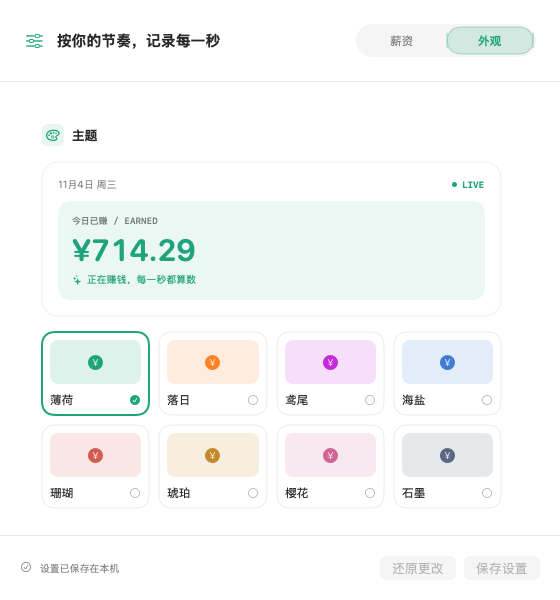
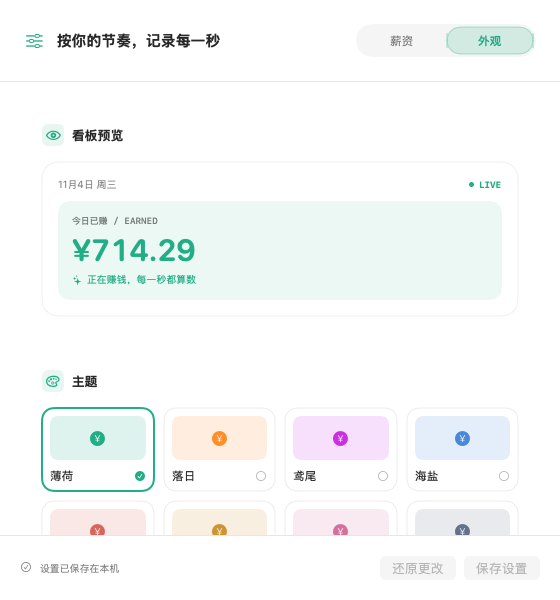
Add dashboard transparency settings and refresh previews

diff --git a/Sources/WageFlow/WageFlowApp.swift b/Sources/WageFlow/WageFlowApp.swift
@@ -21,6 +21,10 @@ final class SalaryStore: ObservableObject {
            let decoded = try? JSONDecoder().decode(WorkSettings.self, from: data), decoded.valid {
             settings = decoded
         } else { settings = WorkSettings() }
+        // Rewrite saved settings without the retired opacity configuration.
+        if let data = try? JSONEncoder().encode(settings) {
+            UserDefaults.standard.set(data, forKey: "workSettings")
+        }
         calendarSubscription = holidays.objectWillChange.sink { [weak self] _ in
             self?.objectWillChange.send()
         }
@@ -92,6 +96,7 @@ final class SalaryAppDelegate: NSObject, NSApplicationDelegate {
     private var timer: Timer?
     private var calendarTimer: Timer?
     private var clickMonitor: Any?
+    private var appearanceSubscription: AnyCancellable?
 
     func applicationDidFinishLaunching(_ notification: Notification) {
         // Keep the item alive and use a native image instead of a TimelineView label.
@@ -108,6 +113,10 @@ final class SalaryAppDelegate: NSObject, NSApplicationDelegate {
             button.setAccessibilityLabel("WageFlow，点击查看今日收入")
         }
         statusItem = item
+        appearanceSubscription = store.$settings.sink { [weak self] settings in
+            self?.desktopWindow?.alphaValue = settings.dashboardOpacity
+            self?.popover.contentViewController?.view.window?.alphaValue = settings.dashboardOpacity
+        }
         popover.behavior = .transient
         popover.contentViewController = NSHostingController(rootView:
             Dashboard(store: store,
@@ -140,6 +149,7 @@ final class SalaryAppDelegate: NSObject, NSApplicationDelegate {
         } else {
             NSApp.activate(ignoringOtherApps: true)
             popover.show(relativeTo: button.bounds, of: button, preferredEdge: .minY)
+            popover.contentViewController?.view.window?.alphaValue = store.settings.dashboardOpacity
             popover.contentViewController?.view.window?.makeKey()
         }
     }
@@ -171,6 +181,7 @@ final class SalaryAppDelegate: NSObject, NSApplicationDelegate {
             desktopWindow = window
         }
         NSApp.activate(ignoringOtherApps: true)
+        desktopWindow?.alphaValue = store.settings.dashboardOpacity
         desktopWindow?.makeKeyAndOrderFront(nil)
     }
 

diff --git a/Sources/SalaryCore/SalaryCalculator.swift b/Sources/SalaryCore/SalaryCalculator.swift
@@ -16,12 +16,14 @@ public struct WorkSettings: Codable, Equatable {
     public var commute: Double = 60
     public var dailyCost: Double = 30
     public var theme: String = "薄荷"
+    public var dashboardTransparency: Double = 0
+    public var dashboardOpacity: Double { 1 - dashboardTransparency }
     public var hideIncome: Bool = false
     public init() {}
 
     private enum CodingKeys: String, CodingKey {
         case income, cycle, workdays, start, end, lunchStart, lunchEnd
-        case workdayOverrides, commute, dailyCost, theme, hideIncome
+        case workdayOverrides, commute, dailyCost, theme, hideIncome, dashboardTransparency
     }
 
     private enum LegacyCodingKeys: String, CodingKey { case workdayMode }
@@ -44,6 +46,8 @@ public struct WorkSettings: Codable, Equatable {
         commute = try c.decodeIfPresent(Double.self, forKey: .commute) ?? commute
         dailyCost = try c.decodeIfPresent(Double.self, forKey: .dailyCost) ?? dailyCost
         theme = try c.decodeIfPresent(String.self, forKey: .theme) ?? theme
+        // Ignore the retired opacity key so existing appearance caches reset to opaque.
+        dashboardTransparency = try c.decodeIfPresent(Double.self, forKey: .dashboardTransparency) ?? 0
         hideIncome = try c.decodeIfPresent(Bool.self, forKey: .hideIncome) ?? hideIncome
     }
 
@@ -51,7 +55,8 @@ public struct WorkSettings: Codable, Equatable {
         income.isFinite && income >= 0 && workdays.isFinite && workdays >= 0 &&
         start >= 0 && end <= 1440 && end > start && lunchStart >= start &&
         lunchEnd >= lunchStart && lunchEnd <= end && paidMinutes > 0 &&
-        commute.isFinite && commute >= 0 && dailyCost.isFinite && dailyCost >= 0
+        commute.isFinite && commute >= 0 && dailyCost.isFinite && dailyCost >= 0 &&
+        dashboardTransparency.isFinite && (0...0.4).contains(dashboardTransparency)
     }
     public var paidMinutes: Double { Double(end - start - (lunchEnd - lunchStart)) }
     public var dailyPay: Double {

diff --git a/Sources/WageFlow/SettingsPanel.swift b/Sources/WageFlow/SettingsPanel.swift
@@ -132,7 +132,9 @@ struct SettingsPanel: View {
                         calendarCard
                         previewCard
                     } else {
+                        appearancePreview
                         themeCard
+                        opacityCard
                     }
                 }.padding(24)
             }.frame(maxWidth: .infinity, maxHeight: .infinity)
@@ -268,14 +270,37 @@ struct SettingsPanel: View {
         return "每日计薪 \(paid) 小时 · 在岗 \(span) 小时"
     }
 
+    private var appearancePreview: some View {
+        card("看板预览", icon: "eye") {
+            DashboardPreview(theme: WorkTheme.named(editor.draft.theme))
+                .opacity(editor.draft.dashboardOpacity)
+        }
+    }
+
     private var themeCard: some View {
         card("主题", icon: "paintpalette") {
-            DashboardPreview(theme: WorkTheme.named(editor.draft.theme))
             LazyVGrid(columns: Array(repeating: GridItem(.flexible(), spacing: 10), count: 4), spacing: 10) {
                 ForEach(WorkTheme.all) { theme in
                     swatch(theme)
                 }
             }
+        }
+    }
+
+    private var opacityCard: some View {
+        card("透明度", icon: "circle.lefthalf.filled") {
+            HStack {
+                Text("透明度")
+                Spacer()
+                Text(editor.draft.dashboardTransparency, format: .percent.precision(.fractionLength(0)))
+                    .monospacedDigit().foregroundStyle(.secondary)
+            }
+            Slider(value: $editor.draft.dashboardTransparency, in: 0...0.4, step: 0.01) {
+                Text("透明度")
+            }
+            .labelsHidden()
+            Text("保存后应用于菜单栏看板和桌面看板，0% 为完全不透明。")
+                .font(.caption).foregroundStyle(.secondary)
         }
     }
 

diff --git a/Tests/SalaryCoreTests/SalaryCalculatorTests.swift b/Tests/SalaryCoreTests/SalaryCalculatorTests.swift
@@ -12,6 +12,7 @@ struct SalaryCalculatorTests {
         suite.testWeekendHasNoEarnings()
         suite.testCyclesAndEffectivePay()
         suite.testInvalidSchedules()
+        suite.testAppearanceSettings()
         checkHolidayCalendars()
         checkWorkCalendarSelection()
         checkTimeCode()
@@ -22,6 +23,20 @@ struct SalaryCalculatorTests {
         var c = Calendar(identifier: .gregorian)
         c.timeZone = TimeZone(secondsFromGMT: 0)!
         return c
+    }
+    func testAppearanceSettings() {
+        let legacy = try! JSONDecoder().decode(WorkSettings.self, from: Data("{}".utf8))
+        precondition(legacy.dashboardOpacity == 1)
+        let migrated = try! JSONDecoder().decode(WorkSettings.self, from: Data(#"{"dashboardOpacity":0.45,"income":12345}"#.utf8))
+        precondition(migrated.dashboardOpacity == 1 && migrated.income == 12345)
+        var settings = legacy
+        settings.dashboardTransparency = 0.4
+        let restored = try! JSONDecoder().decode(WorkSettings.self, from: JSONEncoder().encode(settings))
+        precondition(restored == settings && restored.valid)
+        for invalid in [-0.01, 0.41, 1.01, Double.nan, Double.infinity] {
+            settings.dashboardTransparency = invalid
+            precondition(!settings.valid)
+        }
     }
     private func snapshot(_ hour: Int, _ minute: Int = 0, day: Int = 2) -> WorkSnapshot {
         let date = calendar.date(from: DateComponents(year: 2026, month: 11, day: day, hour: hour, minute: minute))!

diff --git a/scripts/render-previews.py b/scripts/render-previews.py
@@ -41,7 +41,7 @@ struct PreviewRenderer {
         previewDate = Calendar(identifier: .gregorian).date(from:
             DateComponents(year: 2026, month: 11, day: 7, hour: 11, minute: 30))!
         try render(Dashboard(store: store), name: "dashboard-restday", width: 400, height: 545)
-        try render(SettingsPanel(store: store), name: "settings-pay", width: 560, height: 1445)
+        try render(SettingsPanel(store: store), name: "settings-pay", width: 560, height: 600)
         try render(SettingsPanel(store: store, previewPage: .appearance), name: "settings-appearance", width: 560, height: 600)
     }
 

diff --git a/README.md b/README.md
@@ -53,6 +53,8 @@ python3 scripts/render-previews.py     # 生成预览图，需要 Python 3
 
 点击菜单栏人民币图标打开看板，齿轮进入设置。修改后点击「保存设置」（`⌘S`）生效。
 
+外观设置支持主题配色和看板透明度（0%–40%），同时应用于菜单栏看板和桌面看板；默认透明度为 0%，即完全不透明。
+
 ## 计算与日历
 
 月薪按当月计薪天数折算，午休及休息日不累计收入；仅支持当天班次。午休时段看板切换为午休页面并显示结束倒计时，关闭「扣除午休时间」后不显示该页面。
